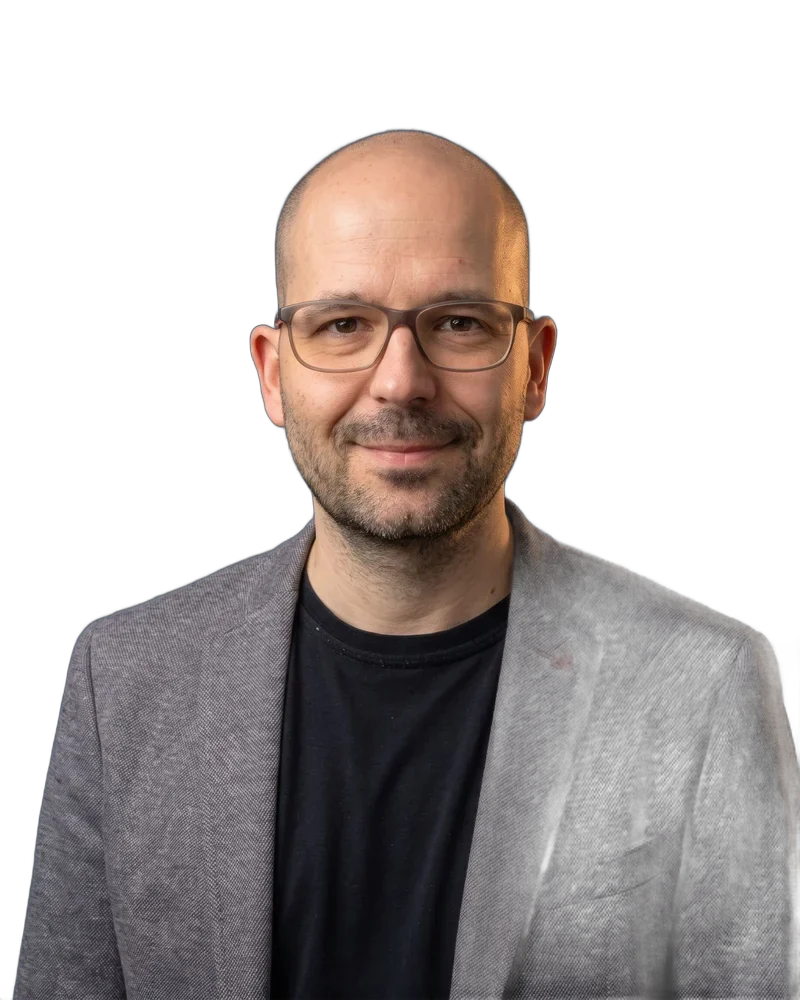
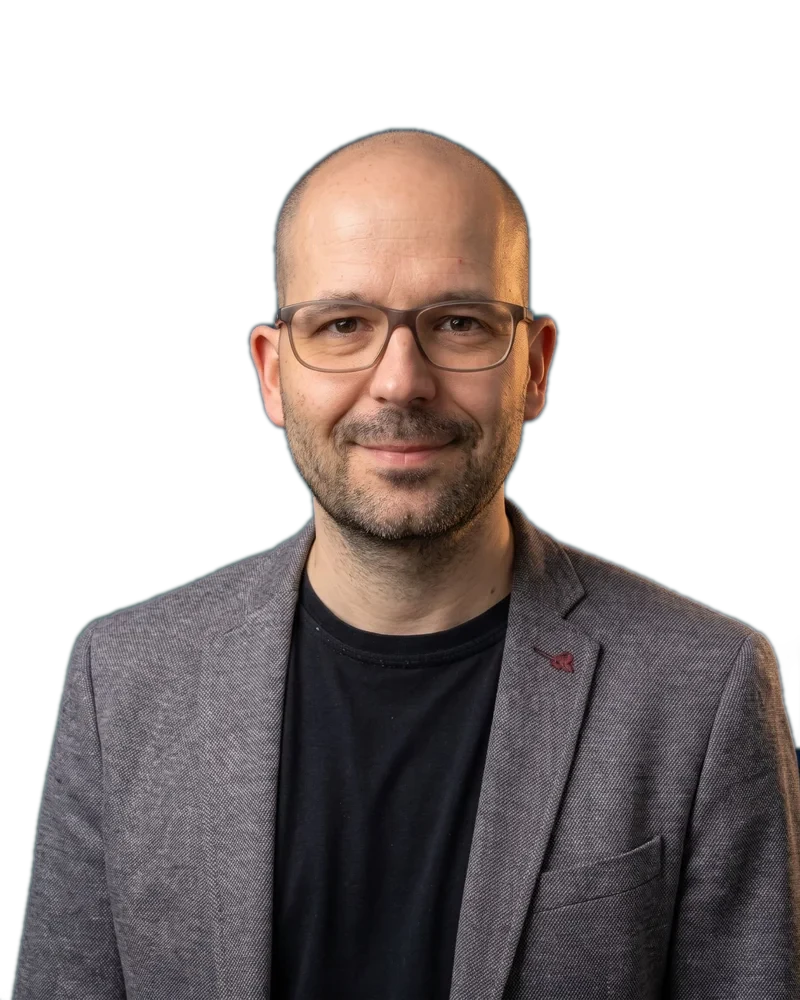
Team: Freisteller von Henning und Tim neu (lückenlose Silhouette, Originalfarben), Pille-Karten mit feineren Linien, Foto füllt das Fenster bis an die Ränder
Claude-Session: https://claude.ai/code/session_01AoRcRx4oyZndbFgrznzbbF

diff --git a/netzkombyse/k14/index.html b/netzkombyse/k14/index.html
@@ -97,7 +97,7 @@
 
 <section class="sec" id="team"><div class="wr"><p class="tag" data-reveal><b>06</b> Team</p><h2 data-reveal>Die <span class="pill">Menschen</span> dahinter.</h2>
   <p class="lead tl" data-reveal>Jede Person hier ist Ihre direkte Ansprechpartnerin, Ihr direkter Ansprechpartner, vom ersten Gespräch bis zum Start. In keiner bestimmten Reihenfolge.</p></div>
-  <div class="tc-row" data-trow tabindex="0" role="region" aria-label="Team, seitlich scrollbar"><article class="tc" style="--i:0" tabindex="0"><p class="tc-p">Präsentiert</p><h3 class="tc-n">Henning Groß</h3><div class="tc-w"><svg class="tc-art" viewBox="0 0 300 380" preserveAspectRatio="xMidYMid slice" aria-hidden="true" focusable="false"><rect width="300" height="380" fill="#FFB27A"/><g fill="none" stroke="#1B1210" stroke-width="18"><circle cx="70" cy="300" r="140"/><circle cx="70" cy="300" r="86"/></g><circle cx="70" cy="300" r="30" fill="#1B1210"/><path d="M-20 130 C 80 30, 150 220, 300 90" fill="none" stroke="#1B1210" stroke-width="20" stroke-linecap="round"/><path d="M262 50 L312 92 L254 124" fill="none" stroke="#1B1210" stroke-width="20" stroke-linecap="round" stroke-linejoin="round"/><circle cx="52" cy="92" r="20" fill="#FFF1DC" stroke="#1B1210" stroke-width="10"/><circle cx="196" cy="150" r="20" fill="#FF6B14" stroke="#1B1210" stroke-width="10"/></svg><img src="../media/team-cut/henning.webp" alt="Henning Groß" width="800" height="1000" loading="lazy" decoding="async" draggable="false"><div class="tc-d"><p>Vom Konzern-Einkäufer zur Entwicklung von Unternehmen. Weltreisender, Stratege. Privat mit Wärmepumpe, E-Auto, PV und Smart Home von Zukunftstechnologie begeistert.</p></div></div><p class="tc-z">im Team als</p><p class="tc-r">Gründer &amp; Strategie</p><span class="tc-i" aria-hidden="true">01/09</span><span class="tc-m" aria-hidden="true">NK</span></article><article class="tc" style="--i:1" tabindex="0"><p class="tc-p">Präsentiert</p><h3 class="tc-n">Patrick König</h3><div class="tc-w"><svg class="tc-art" viewBox="0 0 300 380" preserveAspectRatio="xMidYMid slice" aria-hidden="true" focusable="false"><rect width="300" height="380" fill="#FF8A3D"/><g fill="none" stroke="#1B1210" stroke-width="38" stroke-linejoin="miter"><path d="M112 40 L22 190 L112 340"/><path d="M188 40 L278 190 L188 340"/></g><path d="M172 30 L128 350" stroke="#FFF1DC" stroke-width="28" stroke-linecap="butt"/><g fill="#1B1210"><rect x="20" y="20" width="26" height="26"/><rect x="254" y="334" width="26" height="26"/></g></svg><img src="../media/team-cut/patrick.webp" alt="Patrick König" width="800" height="1000" loading="lazy" decoding="async" draggable="false"><div class="tc-d"><p>Begeistert von komplexen Systemstrukturen und IT-Landschaften. Sorgt für Performance im Front- und Backend.</p></div></div><p class="tc-z">zuständig für</p><p class="tc-r">FullStack-Entwicklung</p><span class="tc-i" aria-hidden="true">02/09</span><span class="tc-m" aria-hidden="true">NK</span></article><article class="tc" style="--i:2" tabindex="0"><p class="tc-p">Präsentiert</p><h3 class="tc-n">Heiko Bee</h3><div class="tc-w"><svg class="tc-art" viewBox="0 0 300 380" preserveAspectRatio="xMidYMid slice" aria-hidden="true" focusable="false"><rect width="300" height="380" fill="#FFC48A"/><g stroke="#1B1210" stroke-width="18" stroke-linecap="round" fill="none"><path d="M96 112 L200 150"/><path d="M214 214 L130 278"/><path d="M60 140 L80 250"/></g><g stroke="#1B1210" stroke-width="16"><circle cx="64" cy="92" r="44" fill="#FFF1DC"/><circle cx="246" cy="172" r="56" fill="#FF6B14"/><circle cx="100" cy="300" r="42" fill="#1B1210"/></g></svg><img src="../media/team-cut/heiko.webp" alt="Heiko Bee" width="800" height="1000" loading="lazy" decoding="async" draggable="false"><div class="tc-d"><p>Schnittstellen sind sein Entwickler-Leben. Als FullStack verbindet er jedes System zur Effizienzsteigerung. Keine ERP, die nicht angebunden wird. Privat rettet er Vespas.</p></div></div><p class="tc-z">zuständig für</p><p class="tc-r">FullStack &amp; Schnittstellen</p><span class="tc-i" aria-hidden="true">03/09</span><span class="tc-m" aria-hidden="true">NK</span></article><article class="tc" style="--i:3" tabindex="0"><p class="tc-p">Präsentiert</p><h3 class="tc-n">Felix Augur</h3><div class="tc-w"><svg class="tc-art" viewBox="0 0 300 380" preserveAspectRatio="xMidYMid slice" aria-hidden="true" focusable="false"><rect width="300" height="380" fill="#FF6B14"/><path d="M30 40 H200 a40 40 0 0 1 40 40 V130 a40 40 0 0 1 -40 40 H100 L50 215 V170 H30 a40 40 0 0 1 -40 -40 V80 a40 40 0 0 1 40 -40 Z" fill="#FFF1DC" stroke="#1B1210" stroke-width="14"/><path d="M110 205 H270 a40 40 0 0 1 40 40 V290 a40 40 0 0 1 -40 40 H250 V380 L196 330 H110 a40 40 0 0 1 -40 -40 V245 a40 40 0 0 1 40 -40 Z" fill="#1B1210"/><g fill="#FFF1DC"><circle cx="130" cy="268" r="13"/><circle cx="180" cy="268" r="13"/><circle cx="230" cy="268" r="13"/></g><g fill="#1B1210"><rect x="52" y="76" width="130" height="14" rx="7"/><rect x="52" y="110" width="90" height="14" rx="7"/></g></svg><img src="../media/team-cut/felix.webp" alt="Felix Augur" width="800" height="1000" loading="lazy" decoding="async" draggable="false"><div class="tc-d"><p>Marke und Kommunikation von der Pieke auf gelernt. Agentur- und Konzernerfahren. Er sorgt dafür, dass Ihre Botschaft ankommt. Privat angelt er gerne in Skandinavien.</p></div></div><p class="tc-z">zuständig für</p><p class="tc-r">Marke &amp; Kommunikation</p><span class="tc-i" aria-hidden="true">04/09</span><span class="tc-m" aria-hidden="true">NK</span></article><article class="tc" style="--i:4" tabindex="0"><p class="tc-p">Präsentiert</p><h3 class="tc-n">Inga von Kurnatowski</h3><div class="tc-w"><svg class="tc-art" viewBox="0 0 300 380" preserveAspectRatio="xMidYMid slice" aria-hidden="true" focusable="false"><rect width="300" height="380" fill="#FF9E7A"/><rect x="0" y="0" width="44" height="380" fill="#1B1210"/><rect x="256" y="0" width="44" height="380" fill="#1B1210"/><rect x="14" y="14" width="16" height="22" fill="#FFF1DC"/><rect x="14" y="58" width="16" height="22" fill="#FFF1DC"/><rect x="14" y="102" width="16" height="22" fill="#FFF1DC"/><rect x="14" y="146" width="16" height="22" fill="#FFF1DC"/><rect x="14" y="190" width="16" height="22" fill="#FFF1DC"/><rect x="14" y="234" width="16" height="22" fill="#FFF1DC"/><rect x="14" y="278" width="16" height="22" fill="#FFF1DC"/><rect x="14" y="322" width="16" height="22" fill="#FFF1DC"/><rect x="14" y="366" width="16" height="22" fill="#FFF1DC"/><rect x="270" y="14" width="16" height="22" fill="#FFF1DC"/><rect x="270" y="58" width="16" height="22" fill="#FFF1DC"/><rect x="270" y="102" width="16" height="22" fill="#FFF1DC"/><rect x="270" y="146" width="16" height="22" fill="#FFF1DC"/><rect x="270" y="190" width="16" height="22" fill="#FFF1DC"/><rect x="270" y="234" width="16" height="22" fill="#FFF1DC"/><rect x="270" y="278" width="16" height="22" fill="#FFF1DC"/><rect x="270" y="322" width="16" height="22" fill="#FFF1DC"/><rect x="270" y="366" width="16" height="22" fill="#FFF1DC"/><path d="M104 100 L236 190 L104 280 Z" fill="#FFF1DC" stroke="#1B1210" stroke-width="16" stroke-linejoin="round"/></svg><img src="../media/team-cut/inga.webp" alt="Inga von Kurnatowski" width="800" height="1000" loading="lazy" decoding="async" draggable="false"><div class="tc-d"><p>Geschichten, die hängenbleiben – für Ihre Marke, Ihre Produkte, Ihre Kampagnen. Sympathie vor Pathos, Wirkung vor Ästhetik.</p></div></div><p class="tc-z">zuständig für</p><p class="tc-r">Video &amp; Content</p><span class="tc-i" aria-hidden="true">05/09</span><span class="tc-m" aria-hidden="true">NK</span></article><article class="tc" style="--i:5" tabindex="0"><p class="tc-p">Präsentiert</p><h3 class="tc-n">Mi Dinh</h3><div class="tc-w"><svg class="tc-art" viewBox="0 0 300 380" preserveAspectRatio="xMidYMid slice" aria-hidden="true" focusable="false"><rect width="300" height="380" fill="#FFD08F"/><rect x="26" y="34" width="248" height="312" rx="20" fill="none" stroke="#1B1210" stroke-width="6" stroke-dasharray="14 12"/><path d="M-10 320 C 70 40, 170 400, 320 90" fill="none" stroke="#1B1210" stroke-width="18" stroke-linecap="round"/><g stroke="#1B1210" stroke-width="6" fill="none"><path d="M44 196 L110 120"/><path d="M110 120 L172 212"/><path d="M226 150 L286 96"/></g><g fill="#FFF1DC" stroke="#1B1210" stroke-width="8"><rect x="94" y="104" width="32" height="32"/><rect x="210" y="134" width="32" height="32"/></g><g fill="#FF6B14" stroke="#1B1210" stroke-width="8"><circle cx="44" cy="196" r="12"/><circle cx="172" cy="212" r="12"/><circle cx="286" cy="96" r="12"/></g></svg><img src="../media/team-cut/mi.webp" alt="Mi Dinh" width="800" height="1000" loading="lazy" decoding="async" draggable="false"><div class="tc-d"><p>Form folgt Wirkung. User Interface-Design und User Experience, die konvertieren und begeistern, mit Liebe zum Detail.</p></div></div><p class="tc-z">zuständig für</p><p class="tc-r">UI &amp; Design</p><span class="tc-i" aria-hidden="true">06/09</span><span class="tc-m" aria-hidden="true">NK</span></article><article class="tc" style="--i:6" tabindex="0"><p class="tc-p">Präsentiert</p><h3 class="tc-n">Tim Brettschneider</h3><div class="tc-w"><svg class="tc-art" viewBox="0 0 300 380" preserveAspectRatio="xMidYMid slice" aria-hidden="true" focusable="false"><rect width="300" height="380" fill="#E9540C"/><ellipse cx="150" cy="330" rx="104" ry="34" fill="#FFF1DC" stroke="#1B1210" stroke-width="14"/><ellipse cx="150" cy="292" rx="104" ry="34" fill="#FFF1DC" stroke="#1B1210" stroke-width="14"/><ellipse cx="150" cy="254" rx="104" ry="34" fill="#FFF1DC" stroke="#1B1210" stroke-width="14"/><ellipse cx="150" cy="216" rx="104" ry="34" fill="#FFF1DC" stroke="#1B1210" stroke-width="14"/><ellipse cx="150" cy="178" rx="104" ry="34" fill="#FFF1DC" stroke="#1B1210" stroke-width="14"/><text x="150" y="202" text-anchor="middle" font-family="Unbounded,Montserrat,sans-serif" font-weight="800" font-size="70" fill="#1B1210">€</text><path d="M240 130 V34 M200 74 L240 34 L280 74" fill="none" stroke="#1B1210" stroke-width="18" stroke-linecap="round" stroke-linejoin="round"/></svg><img src="../media/team-cut/tim.webp" alt="Tim Brettschneider" width="800" height="1000" loading="lazy" decoding="async" draggable="false"><div class="tc-d"><p>Kennt die Fördertöpfe, die Bedingungen und die Wege dorthin. Ihr Vorteil bei der Finanzierung von Digitalisierungsprojekten.</p></div></div><p class="tc-z">zuständig für</p><p class="tc-r">Fördermittel</p><span class="tc-i" aria-hidden="true">07/09</span><span class="tc-m" aria-hidden="true">NK</span></article><article class="tc" style="--i:7" tabindex="0"><p class="tc-p">Präsentiert</p><h3 class="tc-n">Stefan Gutmann</h3><div class="tc-w"><svg class="tc-art" viewBox="0 0 300 380" preserveAspectRatio="xMidYMid slice" aria-hidden="true" focusable="false"><rect width="300" height="380" fill="#FFAA66"/><g fill="#1B1210"><rect x="24" y="290" width="56" height="90"/><rect x="96" y="250" width="56" height="130"/><rect x="168" y="210" width="56" height="170"/></g><circle cx="132" cy="140" r="86" fill="#FFF1DC" stroke="#1B1210" stroke-width="22"/><path d="M196 204 L276 300" stroke="#1B1210" stroke-width="38" stroke-linecap="round"/><path d="M244 36 Q246 66 276 70 Q246 74 244 104 Q242 74 212 70 Q242 66 244 36 Z" fill="#FF6B14" stroke="#1B1210" stroke-width="6" stroke-linejoin="round"/><path d="M132 104 V176 M96 140 H168" stroke="#1B1210" stroke-width="10" stroke-linecap="round"/></svg><img src="../media/team-cut/stefan.webp" alt="Stefan Gutmann" width="800" height="1000" loading="lazy" decoding="async" draggable="false"><div class="tc-d"><p>Sorgt dafür, dass Ihre Kunden Sie finden – in Suchmaschinen und KI-Antworten. Datengetriebene Strategien für organische Reichweite.</p></div></div><p class="tc-z">zuständig für</p><p class="tc-r">SEO &amp; AI-Sichtbarkeit</p><span class="tc-i" aria-hidden="true">08/09</span><span class="tc-m" aria-hidden="true">NK</span></article><article class="tc" style="--i:8" tabindex="0"><p class="tc-p">Präsentiert</p><h3 class="tc-n">Mr. Claude</h3><div class="tc-w"><svg class="tc-art" viewBox="0 0 300 380" preserveAspectRatio="xMidYMid slice" aria-hidden="true" focusable="false"><rect width="300" height="380" fill="#FFDDB0"/><rect x="20" y="300" width="24" height="24" fill="#1B1210"/><rect x="44" y="324" width="24" height="24" fill="#1B1210"/><rect x="20" y="348" width="24" height="24" fill="#1B1210"/><rect x="250" y="20" width="24" height="24" fill="#1B1210"/><rect x="226" y="44" width="24" height="24" fill="#1B1210"/><rect x="250" y="68" width="24" height="24" fill="#1B1210"/><rect x="274" y="44" width="24" height="24" fill="#1B1210"/><rect x="272" y="330" width="24" height="24" fill="#1B1210"/><rect x="248" y="354" width="24" height="24" fill="#1B1210"/><path d="M150 20 Q158 150 270 190 Q158 230 150 360 Q142 230 30 190 Q142 150 150 20 Z" fill="#1B1210"/><path d="M236 250 Q239 274 262 277 Q239 280 236 304 Q233 280 210 277 Q233 274 236 250 Z" fill="#FF6B14" stroke="#1B1210" stroke-width="5"/></svg><img src="../media/team-cut/claude.webp" alt="Mr. Claude" width="800" height="1000" loading="lazy" decoding="async" draggable="false"><div class="tc-d"><p>Der digitale Kollege im Team: recherchiert, prüft und baut mit, rund um die Uhr.</p></div></div><p class="tc-z">im Team als</p><p class="tc-r">AI Guy</p><span class="tc-i" aria-hidden="true">09/09</span><span class="tc-m" aria-hidden="true">NK</span></article></div></section>
+  <div class="tc-row" data-trow tabindex="0" role="region" aria-label="Team, seitlich scrollbar"><article class="tc" style="--i:0" tabindex="0"><p class="tc-p">Präsentiert</p><h3 class="tc-n">Henning Groß</h3><div class="tc-w"><svg class="tc-art" viewBox="0 0 300 380" preserveAspectRatio="xMidYMid slice" aria-hidden="true" focusable="false"><rect width="300" height="380" fill="#FFB27A"/><g fill="none" stroke="#1B1210" stroke-width="10"><circle cx="70" cy="300" r="140"/><circle cx="70" cy="300" r="86"/></g><circle cx="70" cy="300" r="30" fill="#1B1210"/><path d="M-20 130 C 80 30, 150 220, 300 90" fill="none" stroke="#1B1210" stroke-width="11" stroke-linecap="round"/><path d="M262 50 L312 92 L254 124" fill="none" stroke="#1B1210" stroke-width="11" stroke-linecap="round" stroke-linejoin="round"/><circle cx="52" cy="92" r="20" fill="#FFF1DC" stroke="#1B1210" stroke-width="6"/><circle cx="196" cy="150" r="20" fill="#FF6B14" stroke="#1B1210" stroke-width="6"/></svg><img src="../media/team-cut/henning.webp" alt="Henning Groß" width="800" height="1000" loading="lazy" decoding="async" draggable="false"><div class="tc-d"><p>Vom Konzern-Einkäufer zur Entwicklung von Unternehmen. Weltreisender, Stratege. Privat mit Wärmepumpe, E-Auto, PV und Smart Home von Zukunftstechnologie begeistert.</p></div></div><p class="tc-z">im Team als</p><p class="tc-r">Gründer &amp; Strategie</p><span class="tc-i" aria-hidden="true">01/09</span><span class="tc-m" aria-hidden="true">NK</span></article><article class="tc" style="--i:1" tabindex="0"><p class="tc-p">Präsentiert</p><h3 class="tc-n">Patrick König</h3><div class="tc-w"><svg class="tc-art" viewBox="0 0 300 380" preserveAspectRatio="xMidYMid slice" aria-hidden="true" focusable="false"><rect width="300" height="380" fill="#FF8A3D"/><g fill="none" stroke="#1B1210" stroke-width="20" stroke-linejoin="miter"><path d="M112 40 L22 190 L112 340"/><path d="M188 40 L278 190 L188 340"/></g><path d="M172 30 L128 350" stroke="#FFF1DC" stroke-width="16" stroke-linecap="butt"/><g fill="#1B1210"><rect x="20" y="20" width="26" height="26"/><rect x="254" y="334" width="26" height="26"/></g></svg><img src="../media/team-cut/patrick.webp" alt="Patrick König" width="800" height="1000" loading="lazy" decoding="async" draggable="false"><div class="tc-d"><p>Begeistert von komplexen Systemstrukturen und IT-Landschaften. Sorgt für Performance im Front- und Backend.</p></div></div><p class="tc-z">zuständig für</p><p class="tc-r">FullStack-Entwicklung</p><span class="tc-i" aria-hidden="true">02/09</span><span class="tc-m" aria-hidden="true">NK</span></article><article class="tc" style="--i:2" tabindex="0"><p class="tc-p">Präsentiert</p><h3 class="tc-n">Heiko Bee</h3><div class="tc-w"><svg class="tc-art" viewBox="0 0 300 380" preserveAspectRatio="xMidYMid slice" aria-hidden="true" focusable="false"><rect width="300" height="380" fill="#FFC48A"/><g stroke="#1B1210" stroke-width="10" stroke-linecap="round" fill="none"><path d="M96 112 L200 150"/><path d="M214 214 L130 278"/><path d="M60 140 L80 250"/></g><g stroke="#1B1210" stroke-width="9"><circle cx="64" cy="92" r="44" fill="#FFF1DC"/><circle cx="246" cy="172" r="56" fill="#FF6B14"/><circle cx="100" cy="300" r="42" fill="#1B1210"/></g></svg><img src="../media/team-cut/heiko.webp" alt="Heiko Bee" width="800" height="1000" loading="lazy" decoding="async" draggable="false"><div class="tc-d"><p>Schnittstellen sind sein Entwickler-Leben. Als FullStack verbindet er jedes System zur Effizienzsteigerung. Keine ERP, die nicht angebunden wird. Privat rettet er Vespas.</p></div></div><p class="tc-z">zuständig für</p><p class="tc-r">FullStack &amp; Schnittstellen</p><span class="tc-i" aria-hidden="true">03/09</span><span class="tc-m" aria-hidden="true">NK</span></article><article class="tc" style="--i:3" tabindex="0"><p class="tc-p">Präsentiert</p><h3 class="tc-n">Felix Augur</h3><div class="tc-w"><svg class="tc-art" viewBox="0 0 300 380" preserveAspectRatio="xMidYMid slice" aria-hidden="true" focusable="false"><rect width="300" height="380" fill="#FF6B14"/><path d="M30 40 H200 a40 40 0 0 1 40 40 V130 a40 40 0 0 1 -40 40 H100 L50 215 V170 H30 a40 40 0 0 1 -40 -40 V80 a40 40 0 0 1 40 -40 Z" fill="#FFF1DC" stroke="#1B1210" stroke-width="8"/><path d="M110 205 H270 a40 40 0 0 1 40 40 V290 a40 40 0 0 1 -40 40 H250 V380 L196 330 H110 a40 40 0 0 1 -40 -40 V245 a40 40 0 0 1 40 -40 Z" fill="#1B1210"/><g fill="#FFF1DC"><circle cx="130" cy="268" r="13"/><circle cx="180" cy="268" r="13"/><circle cx="230" cy="268" r="13"/></g><g fill="#1B1210"><rect x="52" y="76" width="130" height="14" rx="7"/><rect x="52" y="110" width="90" height="14" rx="7"/></g></svg><img src="../media/team-cut/felix.webp" alt="Felix Augur" width="800" height="1000" loading="lazy" decoding="async" draggable="false"><div class="tc-d"><p>Marke und Kommunikation von der Pieke auf gelernt. Agentur- und Konzernerfahren. Er sorgt dafür, dass Ihre Botschaft ankommt. Privat angelt er gerne in Skandinavien.</p></div></div><p class="tc-z">zuständig für</p><p class="tc-r">Marke &amp; Kommunikation</p><span class="tc-i" aria-hidden="true">04/09</span><span class="tc-m" aria-hidden="true">NK</span></article><article class="tc" style="--i:4" tabindex="0"><p class="tc-p">Präsentiert</p><h3 class="tc-n">Inga von Kurnatowski</h3><div class="tc-w"><svg class="tc-art" viewBox="0 0 300 380" preserveAspectRatio="xMidYMid slice" aria-hidden="true" focusable="false"><rect width="300" height="380" fill="#FF9E7A"/><rect x="0" y="0" width="44" height="380" fill="#1B1210"/><rect x="256" y="0" width="44" height="380" fill="#1B1210"/><rect x="14" y="14" width="16" height="22" fill="#FFF1DC"/><rect x="14" y="58" width="16" height="22" fill="#FFF1DC"/><rect x="14" y="102" width="16" height="22" fill="#FFF1DC"/><rect x="14" y="146" width="16" height="22" fill="#FFF1DC"/><rect x="14" y="190" width="16" height="22" fill="#FFF1DC"/><rect x="14" y="234" width="16" height="22" fill="#FFF1DC"/><rect x="14" y="278" width="16" height="22" fill="#FFF1DC"/><rect x="14" y="322" width="16" height="22" fill="#FFF1DC"/><rect x="14" y="366" width="16" height="22" fill="#FFF1DC"/><rect x="270" y="14" width="16" height="22" fill="#FFF1DC"/><rect x="270" y="58" width="16" height="22" fill="#FFF1DC"/><rect x="270" y="102" width="16" height="22" fill="#FFF1DC"/><rect x="270" y="146" width="16" height="22" fill="#FFF1DC"/><rect x="270" y="190" width="16" height="22" fill="#FFF1DC"/><rect x="270" y="234" width="16" height="22" fill="#FFF1DC"/><rect x="270" y="278" width="16" height="22" fill="#FFF1DC"/><rect x="270" y="322" width="16" height="22" fill="#FFF1DC"/><rect x="270" y="366" width="16" height="22" fill="#FFF1DC"/><path d="M104 100 L236 190 L104 280 Z" fill="#FFF1DC" stroke="#1B1210" stroke-width="9" stroke-linejoin="round"/></svg><img src="../media/team-cut/inga.webp" alt="Inga von Kurnatowski" width="800" height="1000" loading="lazy" decoding="async" draggable="false"><div class="tc-d"><p>Geschichten, die hängenbleiben – für Ihre Marke, Ihre Produkte, Ihre Kampagnen. Sympathie vor Pathos, Wirkung vor Ästhetik.</p></div></div><p class="tc-z">zuständig für</p><p class="tc-r">Video &amp; Content</p><span class="tc-i" aria-hidden="true">05/09</span><span class="tc-m" aria-hidden="true">NK</span></article><article class="tc" style="--i:5" tabindex="0"><p class="tc-p">Präsentiert</p><h3 class="tc-n">Mi Dinh</h3><div class="tc-w"><svg class="tc-art" viewBox="0 0 300 380" preserveAspectRatio="xMidYMid slice" aria-hidden="true" focusable="false"><rect width="300" height="380" fill="#FFD08F"/><rect x="26" y="34" width="248" height="312" rx="20" fill="none" stroke="#1B1210" stroke-width="4" stroke-dasharray="14 12"/><path d="M-10 320 C 70 40, 170 400, 320 90" fill="none" stroke="#1B1210" stroke-width="10" stroke-linecap="round"/><g stroke="#1B1210" stroke-width="4" fill="none"><path d="M44 196 L110 120"/><path d="M110 120 L172 212"/><path d="M226 150 L286 96"/></g><g fill="#FFF1DC" stroke="#1B1210" stroke-width="5"><rect x="94" y="104" width="32" height="32"/><rect x="210" y="134" width="32" height="32"/></g><g fill="#FF6B14" stroke="#1B1210" stroke-width="5"><circle cx="44" cy="196" r="12"/><circle cx="172" cy="212" r="12"/><circle cx="286" cy="96" r="12"/></g></svg><img src="../media/team-cut/mi.webp" alt="Mi Dinh" width="800" height="1000" loading="lazy" decoding="async" draggable="false"><div class="tc-d"><p>Form folgt Wirkung. User Interface-Design und User Experience, die konvertieren und begeistern, mit Liebe zum Detail.</p></div></div><p class="tc-z">zuständig für</p><p class="tc-r">UI &amp; Design</p><span class="tc-i" aria-hidden="true">06/09</span><span class="tc-m" aria-hidden="true">NK</span></article><article class="tc" style="--i:6" tabindex="0"><p class="tc-p">Präsentiert</p><h3 class="tc-n">Tim Brettschneider</h3><div class="tc-w"><svg class="tc-art" viewBox="0 0 300 380" preserveAspectRatio="xMidYMid slice" aria-hidden="true" focusable="false"><rect width="300" height="380" fill="#E9540C"/><ellipse cx="150" cy="330" rx="104" ry="34" fill="#FFF1DC" stroke="#1B1210" stroke-width="8"/><ellipse cx="150" cy="292" rx="104" ry="34" fill="#FFF1DC" stroke="#1B1210" stroke-width="8"/><ellipse cx="150" cy="254" rx="104" ry="34" fill="#FFF1DC" stroke="#1B1210" stroke-width="8"/><ellipse cx="150" cy="216" rx="104" ry="34" fill="#FFF1DC" stroke="#1B1210" stroke-width="8"/><ellipse cx="150" cy="178" rx="104" ry="34" fill="#FFF1DC" stroke="#1B1210" stroke-width="8"/><text x="150" y="202" text-anchor="middle" font-family="Unbounded,Montserrat,sans-serif" font-weight="800" font-size="70" fill="#1B1210">€</text><path d="M240 130 V34 M200 74 L240 34 L280 74" fill="none" stroke="#1B1210" stroke-width="10" stroke-linecap="round" stroke-linejoin="round"/></svg><img src="../media/team-cut/tim.webp" alt="Tim Brettschneider" width="800" height="1000" loading="lazy" decoding="async" draggable="false"><div class="tc-d"><p>Kennt die Fördertöpfe, die Bedingungen und die Wege dorthin. Ihr Vorteil bei der Finanzierung von Digitalisierungsprojekten.</p></div></div><p class="tc-z">zuständig für</p><p class="tc-r">Fördermittel</p><span class="tc-i" aria-hidden="true">07/09</span><span class="tc-m" aria-hidden="true">NK</span></article><article class="tc" style="--i:7" tabindex="0"><p class="tc-p">Präsentiert</p><h3 class="tc-n">Stefan Gutmann</h3><div class="tc-w"><svg class="tc-art" viewBox="0 0 300 380" preserveAspectRatio="xMidYMid slice" aria-hidden="true" focusable="false"><rect width="300" height="380" fill="#FFAA66"/><g fill="#1B1210"><rect x="24" y="290" width="56" height="90"/><rect x="96" y="250" width="56" height="130"/><rect x="168" y="210" width="56" height="170"/></g><circle cx="132" cy="140" r="86" fill="#FFF1DC" stroke="#1B1210" stroke-width="12"/><path d="M196 204 L276 300" stroke="#1B1210" stroke-width="20" stroke-linecap="round"/><path d="M244 36 Q246 66 276 70 Q246 74 244 104 Q242 74 212 70 Q242 66 244 36 Z" fill="#FF6B14" stroke="#1B1210" stroke-width="4" stroke-linejoin="round"/><path d="M132 104 V176 M96 140 H168" stroke="#1B1210" stroke-width="6" stroke-linecap="round"/></svg><img src="../media/team-cut/stefan.webp" alt="Stefan Gutmann" width="800" height="1000" loading="lazy" decoding="async" draggable="false"><div class="tc-d"><p>Sorgt dafür, dass Ihre Kunden Sie finden – in Suchmaschinen und KI-Antworten. Datengetriebene Strategien für organische Reichweite.</p></div></div><p class="tc-z">zuständig für</p><p class="tc-r">SEO &amp; AI-Sichtbarkeit</p><span class="tc-i" aria-hidden="true">08/09</span><span class="tc-m" aria-hidden="true">NK</span></article><article class="tc" style="--i:8" tabindex="0"><p class="tc-p">Präsentiert</p><h3 class="tc-n">Mr. Claude</h3><div class="tc-w"><svg class="tc-art" viewBox="0 0 300 380" preserveAspectRatio="xMidYMid slice" aria-hidden="true" focusable="false"><rect width="300" height="380" fill="#FFDDB0"/><rect x="20" y="300" width="24" height="24" fill="#1B1210"/><rect x="44" y="324" width="24" height="24" fill="#1B1210"/><rect x="20" y="348" width="24" height="24" fill="#1B1210"/><rect x="250" y="20" width="24" height="24" fill="#1B1210"/><rect x="226" y="44" width="24" height="24" fill="#1B1210"/><rect x="250" y="68" width="24" height="24" fill="#1B1210"/><rect x="274" y="44" width="24" height="24" fill="#1B1210"/><rect x="272" y="330" width="24" height="24" fill="#1B1210"/><rect x="248" y="354" width="24" height="24" fill="#1B1210"/><path d="M150 20 Q158 150 270 190 Q158 230 150 360 Q142 230 30 190 Q142 150 150 20 Z" fill="#1B1210"/><path d="M236 250 Q239 274 262 277 Q239 280 236 304 Q233 280 210 277 Q233 274 236 250 Z" fill="#FF6B14" stroke="#1B1210" stroke-width="3"/></svg><img src="../media/team-cut/claude.webp" alt="Mr. Claude" width="800" height="1000" loading="lazy" decoding="async" draggable="false"><div class="tc-d"><p>Der digitale Kollege im Team: recherchiert, prüft und baut mit, rund um die Uhr.</p></div></div><p class="tc-z">im Team als</p><p class="tc-r">AI Guy</p><span class="tc-i" aria-hidden="true">09/09</span><span class="tc-m" aria-hidden="true">NK</span></article></div></section>
 
 <section class="sec kx" id="kontakt" aria-labelledby="kxh">
   <div class="kx-glow" aria-hidden="true"><i></i><i></i><i></i></div>

diff --git a/netzkombyse/k14/style.css b/netzkombyse/k14/style.css
@@ -353,3 +353,9 @@ html[data-motion=on] .kx-glow i{animation:kxg 9s ease-in-out infinite alternate}
 .kx-p img{-webkit-mask-image:linear-gradient(180deg,#000 90%,transparent 100%);mask-image:linear-gradient(180deg,#000 90%,transparent 100%)}
 .kx-ft{margin-top:clamp(5rem,16vh,10rem)}
 @media(max-width:860px){.kx{--kfs:14vw}.kx-p{position:relative;bottom:auto}}
+/* Foto füllt das Fenster bis an die Ränder: Schultern laufen aus dem Bild, keine Lücken an den Seiten */
+.tc-w img{object-fit:cover;object-position:50% 100%}
+
+.tc-w img{object-position:50% 80%}
+.tc-art{opacity:.95}
+.tc:last-child .tc-w img{object-fit:contain;object-position:50% 90%;padding:8%}
